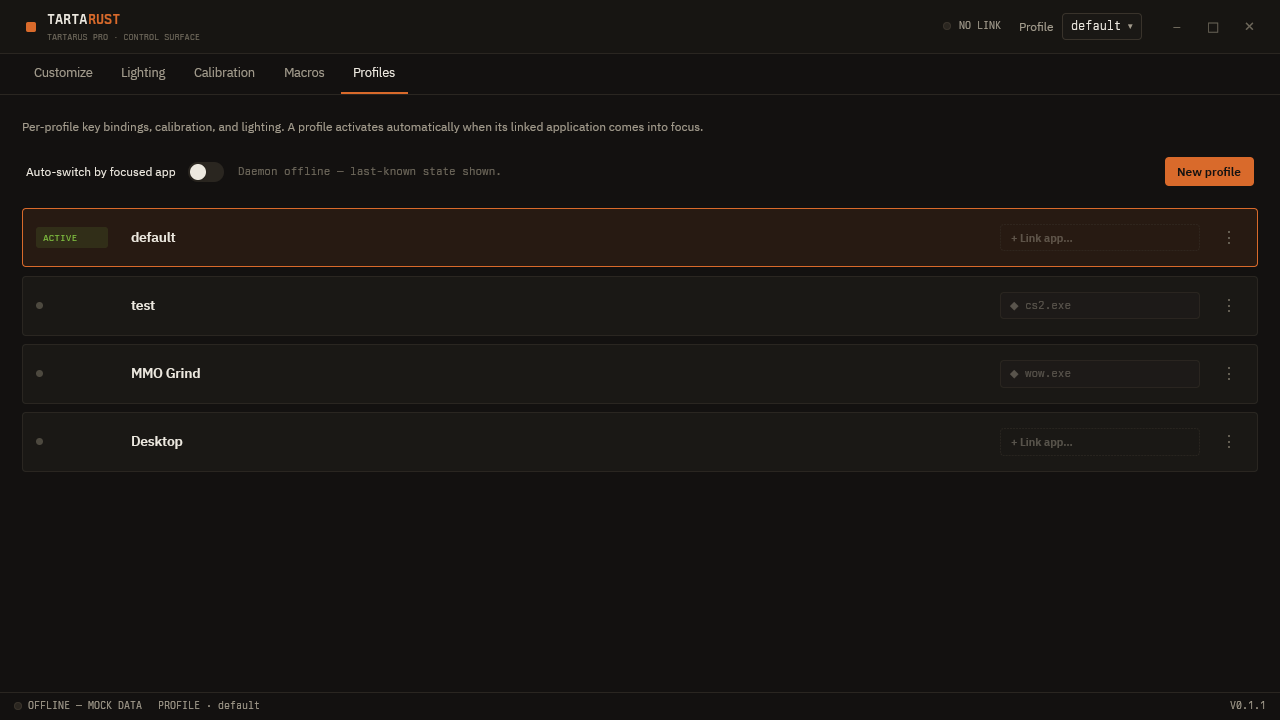
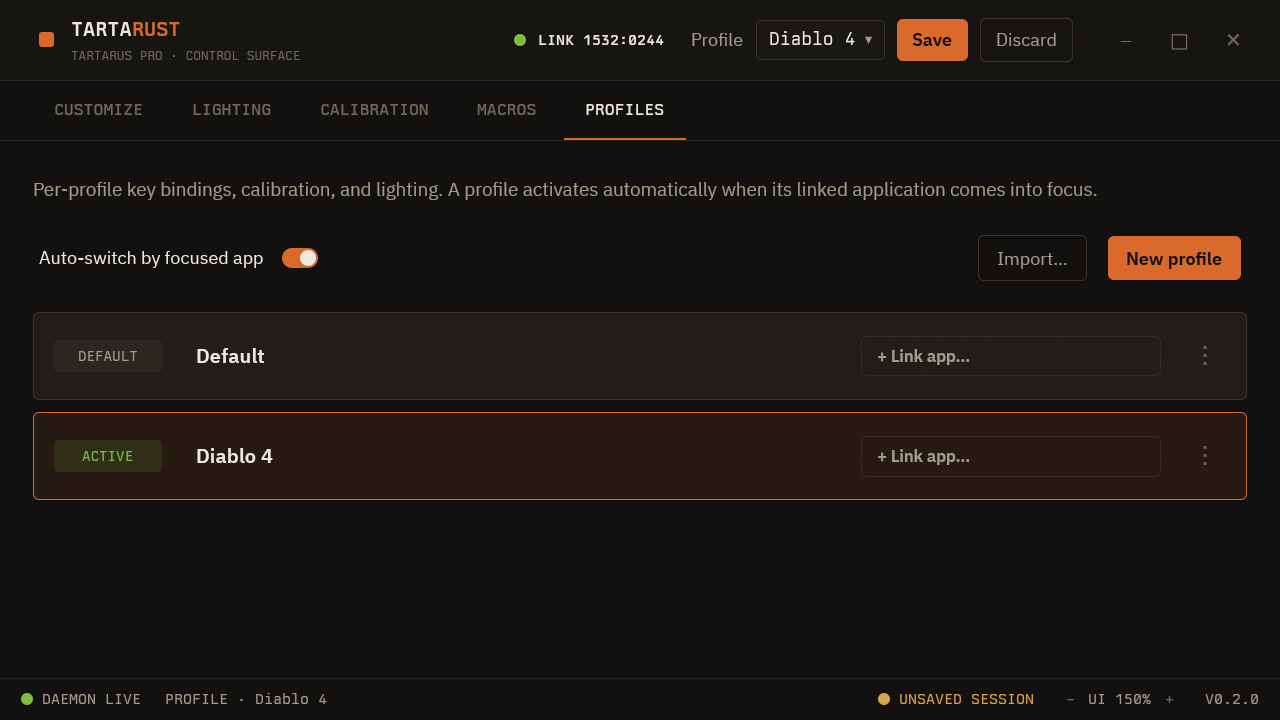
feat(ui): third review round — ctrl+scroll zoom, modal bar smoothing, v0.2.0
- Ctrl+scroll on the shell zooms the UI scale in 0.1 steps (statusbar
  stepper keeps its coarser 0.25); plain scrolling passes through untouched.
- The single-key editor's and bulk panel's live pressure bars now read the
  same SMOOTHED per-key values the keypad paints — they were still stepping
  at the raw 100 ms poll rate after the keypad fix.
- Profile badges (DEFAULT/ACTIVE) center their text: the badge column
  stretches the pill wider than its label, which sat left-aligned.
- Version: 0.2.0. The GPUI toolkit swap plus one additive IPC schema change
  (DiscardChanges) — restart the daemon from a >=0.2.0 build to use Discard;
  everything else interoperates with an 0.1.1 daemon.

Note on the reported "malformed request: unknown variant discard_changes":
not a wire bug — the running daemon was a stale pre-DiscardChanges release
binary. target/release is now rebuilt at 0.2.0.

diff --git a/crates/tartarust-ui/src/screens/calibration.rs b/crates/tartarust-ui/src/screens/calibration.rs
@@ -367,6 +367,19 @@ impl Calibration {
             .unwrap_or(0)
     }
 
+    /// One analog key's DISPLAYED (smoothed) pressure, by byte index — the
+    /// same gliding value the keypad paints, so the single-key editor's and
+    /// the bulk panel's live bars move smoothly too instead of stepping at
+    /// the raw 100 ms poll rate.
+    fn smoothed_of(&self, index: u8) -> u8 {
+        self.analog
+            .as_ref()
+            .and_then(|a| a.keys.iter().find(|k| k.index == index))
+            .and_then(|k| self.smooth.get(&k.key))
+            .map(|v| v.round() as u8)
+            .unwrap_or_else(|| self.pressure_of(index))
+    }
+
     /// The analog config for a cap, when the daemon has one. Analog actuation
     /// isn't grid-only — the spacebar (`KEY_SPACE`) is an analog byte too — so
     /// any bindable cap is matched by evdev name; digital caps (the thumb
@@ -951,7 +964,7 @@ impl Calibration {
         let count = cfgs.len();
         let live_max = cfgs
             .iter()
-            .map(|c| self.pressure_of(c.index))
+            .map(|c| self.smoothed_of(c.index))
             .max()
             .unwrap_or(0);
         let names: String = cfgs
@@ -1135,7 +1148,7 @@ impl Render for Calibration {
             let (open_left, offset) = popover_anchor(*key);
             deferred(self.cal_modal(
                 cfg,
-                self.pressure_of(cfg.index),
+                self.smoothed_of(cfg.index),
                 open_left,
                 offset,
                 &mono,

diff --git a/crates/tartarust-ui/src/components/shell.rs b/crates/tartarust-ui/src/components/shell.rs
@@ -554,6 +554,21 @@ impl Render for Shell {
             .font_family(theme::sans(cx))
             .text_size(theme::sp(13.))
             .text_color(theme::ink())
+            // Ctrl+scroll zooms the UI scale (finer steps than the statusbar
+            // stepper). Plain scrolling passes through to the lists untouched.
+            .on_scroll_wheel(cx.listener(|_, ev: &gpui::ScrollWheelEvent, _, cx| {
+                if !ev.modifiers.control {
+                    return;
+                }
+                cx.stop_propagation();
+                let notches = match ev.delta {
+                    gpui::ScrollDelta::Lines(l) => l.y,
+                    gpui::ScrollDelta::Pixels(p) => f32::from(p.y) / 20.0,
+                };
+                if notches != 0.0 {
+                    theme::set_scale(theme::scale() + notches.signum() * 0.1, cx);
+                }
+            }))
             .child(masthead)
             .child(tab_rail)
             .child(content)

diff --git a/crates/tartarust-ui/src/screens/profiles.rs b/crates/tartarust-ui/src/screens/profiles.rs
@@ -998,6 +998,11 @@ impl Render for Profiles {
 fn badge(text: &'static str, ink: Rgba, bg: Rgba, mono: &SharedString) -> gpui::Div {
     div()
         .flex_none()
+        // Layout centering: the badge column stretches the pill wider than
+        // its text, which otherwise sits left (user review).
+        .flex()
+        .items_center()
+        .justify_center()
         .px(theme::sp(7.))
         .py(theme::sp(3.))
         .rounded(theme::sp(3.))

diff --git a/CLAUDE.md b/CLAUDE.md
@@ -27,7 +27,7 @@ crates:
   package plus all six member crates inherit it with `version.workspace = true`.
   Do not add a literal `version = "x.y.z"` to any member crate; that would let
   them drift.
-- **Current version: `0.1.1`.** To release a new version, edit that single
+- **Current version: `0.2.0`.** To release a new version, edit that single
   `[workspace.package].version` field and everything moves together.
 - **Semver intent:** pre-1.0, treat `0.MINOR.PATCH` as breaking-allowed on
   `MINOR`. The `tartarust-ipc` wire schema is the compatibility surface between a
